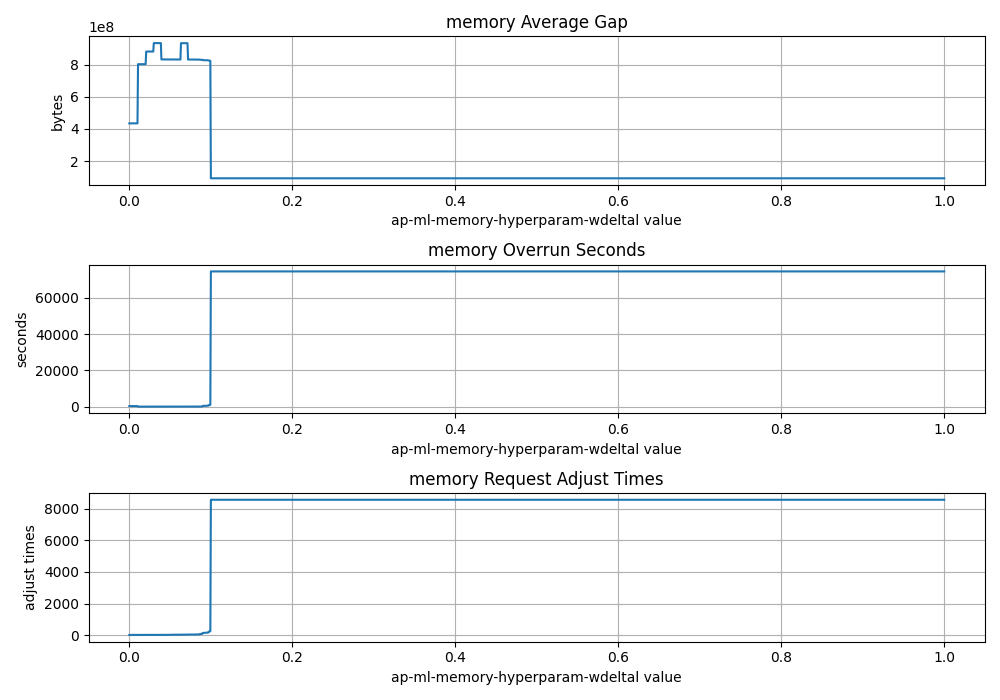
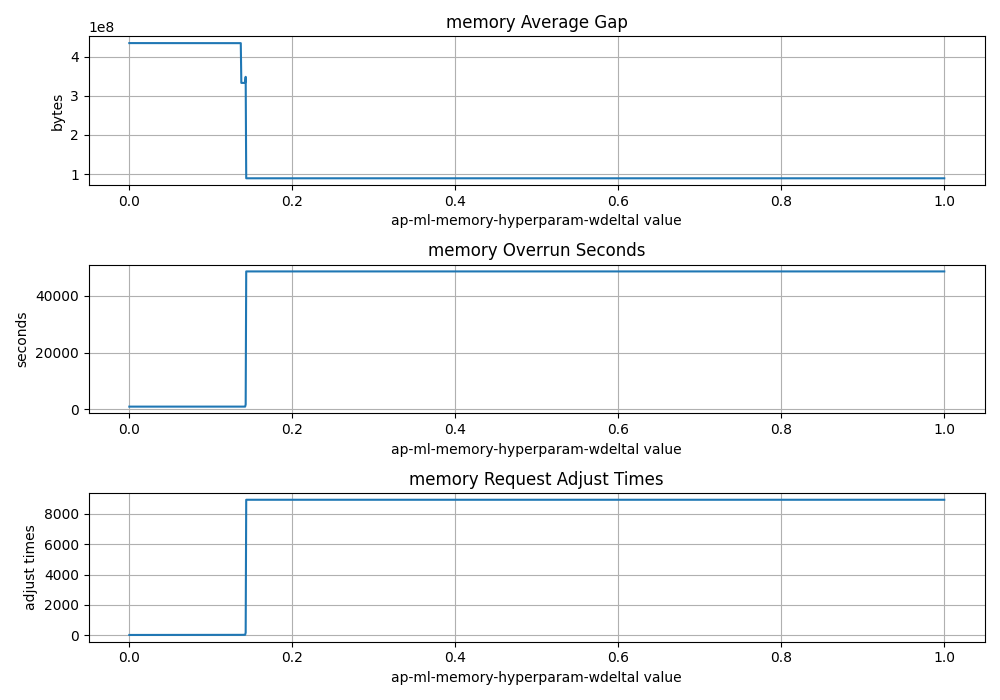
automatic commit from Company

diff --git a/pkg/recommender-simulator/param_iter.py b/pkg/recommender-simulator/param_iter.py
@@ -1,0 +1,127 @@
+import numpy as np
+import itertools
+import subprocess
+import json
+import time
+from concurrent.futures import ThreadPoolExecutor
+
+task_def = { # min, max, default, num
+    "ap-ml-cpu-hyperparam-d":           [0.0, 1.0, 0.8571428571428571, 500],
+    "ap-ml-cpu-hyperparam-wdeltal":     [0.0, 1.0, 0.0, 500],
+    "ap-ml-cpu-hyperparam-wdeltam":     [0.0, 1.0, 0.0, 500],
+    "ap-ml-cpu-hyperparam-wo":          [0.0, 1.0, 0.14285714285714285,500],
+    "ap-ml-cpu-hyperparam-wu":          [0.0, 1.0, 0.0, 500],
+    "ap-ml-memory-hyperparam-d":        [0.0, 1.0, 0.7142857142857142, 500],
+    "ap-ml-memory-hyperparam-wdeltal":  [0.0, 1.0, 0.14285714285714285, 500],
+    "ap-ml-memory-hyperparam-wdeltam":  [0.0, 1.0, 0.7142857142857142, 500],
+    "ap-ml-memory-hyperparam-wo":       [0.0, 1.0, 0.8571428571428571, 500],
+    "ap-ml-memory-hyperparam-wu":       [0.0, 1.0, 0.0, 500]
+}
+
+init_args = [
+"bin/recommender-simulator",
+"-ap-algorithm-ml=true",
+"-ap-cpu-histogram-bucket-num=400",
+"-ap-cpu-histogram-decay-half-life=12h",
+"-ap-cpu-histogram-max=1.9",
+"-ap-cpu-histogram-n=5",
+"-ap-cpu-recommend-policy=sp_95",
+"-ap-fluctuation-reducer-duration=1h",
+"-ap-memory-histogram-bucket-num=400",
+"-ap-memory-histogram-decay-half-life=48h",
+"-ap-memory-histogram-max=3483278000",
+"-ap-memory-histogram-n=5",
+"-ap-memory-recommend-policy=sp_98",
+"-ap-ml-cpu-size-buckets-mm=1",
+"-ap-ml-cpu-num-dm=50",
+"-ap-ml-cpu-num-mm=400",
+"-ap-ml-memory-size-buckets-mm=1",
+"-ap-ml-memory-num-dm=50",
+"-ap-ml-memory-num-mm=500",
+"-initial-cpu=0.6",
+"-initial-memory=600000000",
+"-metrics-file=",
+"-oom-bump-up-ratio=1.2",
+"-oom-min-bump-up-bytes=100000000",
+"-recommender-interval=5m",
+"-trace-file=trace",
+"-metrics-summary-ignore-head=1800",
+"-memory-limit-request-ratio=1.04",
+"-exit-memory-large-overrun=0"
+]
+
+def process_convex(convex_dimension, round):
+
+    max_workers = 32
+
+    ranges = []
+    names = []
+    total_tasks = 0
+    for n, d in task_def.items() :
+        r = []
+        if n == convex_dimension:
+            for v in np.linspace(d[0], d[1], d[3]):
+                r.append(v)
+        else:
+            r.append(d[2])
+        ranges.append(r)
+        names.append(n)
+
+    file_index = 0
+    threadpool_results = []
+    output_args_list = []
+    with ThreadPoolExecutor(max_workers=max_workers) as executor:
+        for c in itertools.product(*ranges) :
+            total_tasks += 1
+            copied_args = init_args[:]
+
+            output_args = {}
+            for i in range(len(c)):
+                copied_args.append("-{}={}".format(names[i], c[i]))
+                output_args[names[i]] = c[i]
+
+            output_args_list.append(output_args)
+            copied_args.append("-metrics-summary-file=tmp/{}-{}".format(file_index, convex_dimension))
+
+            threadpool_results.append(executor.submit(subprocess.run, copied_args, check=True))
+            file_index += 1
+            # break
+
+    print("++++++++++Total tasks++++++++++: ", total_tasks)
+
+    for future in threadpool_results:
+        if future.result().returncode != 0:
+            print("Error return code in experiment!!!! check and rerun")
+            exit(1)
+
+    minoutput = {}
+    mingap = 100000000000.0
+    for i in range(len(output_args_list)):
+        try:
+            with open('metrics/tmp/{}-{}_1.04.json'.format(i, convex_dimension), 'r') as f:
+                single_run_result = json.load(f)
+                if single_run_result['cpu-overrun-seconds'] > 20000:
+                    continue
+                if single_run_result['cpu-request-adjust-times'] > 600:
+                    continue
+                if single_run_result['cpu-average-gap'] < mingap:
+                    mingap = single_run_result['cpu-average-gap']
+                    output = {}
+                    output["args"] = output_args_list[i]
+                    output["result"] = single_run_result
+                    minoutput = output
+        except FileNotFoundError:
+            continue
+
+    for k, v in minoutput['args'].items():
+        task_def[k][2] = v
+
+    with open('iter/cpu_{}_{}.json'.format(round, convex_dimension), 'w') as f:
+        json.dump(minoutput, f)
+
+while(1):
+    i = 0
+    for k in task_def.keys():
+        process_convex(k, i)
+        i += 1
+

diff --git a/pkg/recommender-simulator/draw_convex.py b/pkg/recommender-simulator/draw_convex.py
@@ -3,7 +3,7 @@ import pprint
 import sys
 import matplotlib.pyplot as plt
 
-dimension = "ap-ml-memory-hyperparam-d"
+dimension = "ap-ml-memory-hyperparam-wu"
 small = 0.05
 mid = 0.01
 large = 0.01
@@ -17,28 +17,28 @@ request_adjust = []
 with open('convex/param_sweep_result_{}.json'.format(dimension), 'r') as file:
     data = json.load(file)
     for d in data:
-        if d['args'][dimension] > small:
-            continue
+        # if d['args'][dimension] > small:
+        #     continue
         param.append(d['args'][dimension])
         average_gap.append(d['result']['{}-average-gap'.format(observe)])
         overrun_seconds.append(d['result']['{}-overrun-seconds'.format(observe)])
         request_adjust.append(d['result']['{}-request-adjust-times'.format(observe)])
 
 fig, (ax1, ax2, ax3) = plt.subplots(3, figsize=(10, 7))
-
-ax1.plot(param, average_gap, marker='o', markersize=3)
+# , marker='o', markersize=3
+ax1.plot(param, average_gap)
 ax1.set_title('{} Average Gap'.format(observe))
 ax1.set_xlabel(dimension + " value")
 ax1.set_ylabel('mcores' if observe == 'cpu' else 'bytes')
 ax1.grid(True)
 
-ax2.plot(param, overrun_seconds, marker='o', markersize=3)
+ax2.plot(param, overrun_seconds)
 ax2.set_title('{} Overrun Seconds'.format(observe))
 ax2.set_xlabel(dimension + " value")
 ax2.set_ylabel('seconds')
 ax2.grid(True)
 
-ax3.plot(param, request_adjust, marker='o', markersize=3)
+ax3.plot(param, request_adjust)
 ax3.set_title('{} Request Adjust Times'.format(observe))
 ax3.set_xlabel(dimension + " value")
 ax3.set_ylabel('adjust times')
@@ -49,6 +49,6 @@ ax3.grid(True)
 plt.tight_layout()
 
 dname = dimension.split('-')[-1]
-fig.savefig('convex/convex_memory_{}_small{}.png'.format(dname, small))
+fig.savefig('convex/convex_memory_{}.png'.format(dname))
 # 显示图表
 plt.show()
